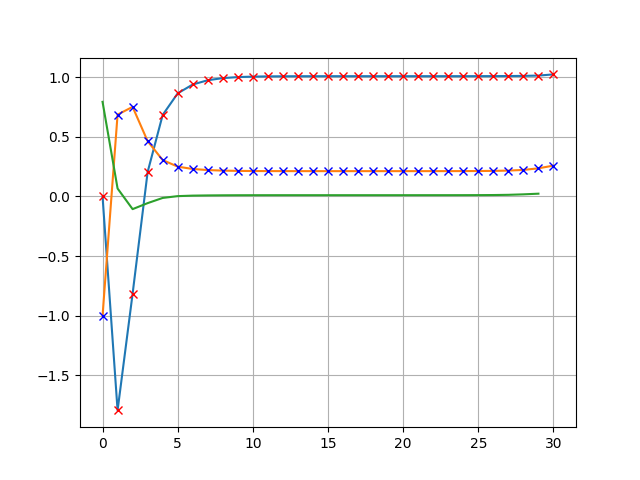
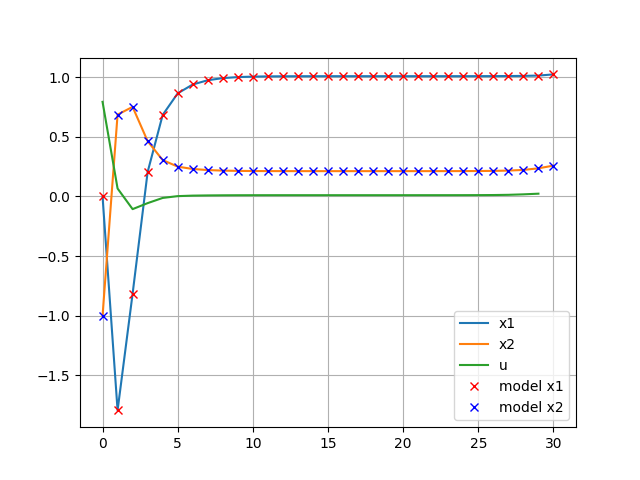
update figure

diff --git a/mpc_tracking/mpc_tracking.py b/mpc_tracking/mpc_tracking.py
@@ -301,13 +301,15 @@ def test5():
         rx = np.hstack((rx, tx))
 
     if DEBUG_:
-        plt.plot(x[:, 0])
-        plt.plot(x[:, 1])
-        plt.plot(u[:, 0])
+        plt.plot(x[:, 0], label="x1")
+        plt.plot(x[:, 1], label="x2")
+        plt.plot(u[:, 0], label="u")
         plt.grid(True)
         #  print(rx)
-        plt.plot(rx[0, :].T, "xr")
-        plt.plot(rx[1, :].T, "xb")
+        plt.plot(rx[0, :].T, "xr", label="model x1")
+        plt.plot(rx[1, :].T, "xb", label="model x2")
+
+        plt.legend()
 
         plt.show()
 
